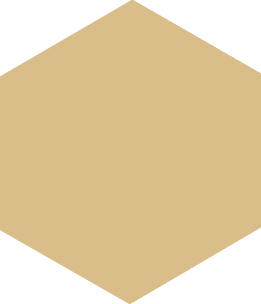
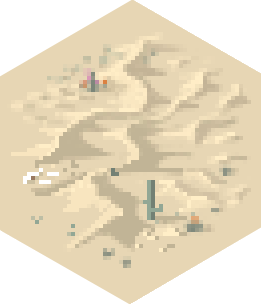
Use number token images (2-12), fix desert hex asset, water/desert at native size

diff --git a/src/components/HexBoard.tsx b/src/components/HexBoard.tsx
@@ -50,6 +50,14 @@ const COLOR_TO_ROAD_BUILD: Record<string, { folder: string; prefix: string }> = 
 }
 const PLACEABLE_ROAD_FRAME_MS = 110
 
+/** Number token assets (2–12): use at native size, unaltered. */
+const NUMBER_TOKEN_WIDTH = 88
+const NUMBER_TOKEN_HEIGHT = 76
+
+/** Water and desert hex assets: use at native size, unaltered (261×304). */
+const WATER_HEX_WIDTH = 261
+const WATER_HEX_HEIGHT = 304
+
 // Map player color image to city icon (built cities use these instead of the settlement/house image)
 const COLOR_TO_CITY_IMAGE: Record<string, string> = {
   '/player-teal.png': '/city-teal.png',
@@ -224,12 +232,12 @@ export function HexBoard({
             <g clipPath={`url(#water-clip-${q},${r})`}>
               <image
                 href="/water-hex.png"
-                x={center.x - HEX_R * 2}
-                y={center.y - HEX_R * 2}
-                width={HEX_R * 4}
-                height={HEX_R * 4}
-                preserveAspectRatio="none"
-                style={{ imageRendering: 'pixelated' }}
+                x={center.x - WATER_HEX_WIDTH / 2}
+                y={center.y - WATER_HEX_HEIGHT / 2}
+                width={WATER_HEX_WIDTH}
+                height={WATER_HEX_HEIGHT}
+                preserveAspectRatio="xMidYMid meet"
+                style={{ imageRendering: 'pixelated', pointerEvents: 'none' }}
               />
             </g>
             <path
@@ -359,32 +367,25 @@ export function HexBoard({
               <g clipPath={`url(#hex-clip-${h.id})`}>
                 <image
                   href="/desert-hex.png"
-                  x={center.x - HEX_R * 2}
-                  y={center.y - HEX_R * 2}
-                  width={HEX_R * 4}
-                  height={HEX_R * 4}
-                  preserveAspectRatio="none"
+                  x={center.x - HEX_R}
+                  y={center.y - HEX_R}
+                  width={HEX_R * 2}
+                  height={HEX_R * 2}
+                  preserveAspectRatio="xMidYMid meet"
                   style={{ imageRendering: 'pixelated', pointerEvents: 'none' }}
                 />
               </g>
             )}
             {showNumberTokens && h.number != null && (
-              <text
-                x={center.x}
-                y={center.y}
-                textAnchor="middle"
-                dominantBaseline="central"
-                fill={h.number === 6 || h.number === 8 ? '#b91c1c' : '#1a1a1a'}
-                fontWeight="bold"
-                fontSize={47.5}
-                stroke="#ffffff"
-                strokeWidth={4}
-                paintOrder="stroke"
-                filter="url(#hex-number-shadow)"
-                style={{ pointerEvents: 'none' }}
-              >
-                {h.number}
-              </text>
+              <image
+                href={`/number-tokens/${h.number}.png`}
+                x={center.x - NUMBER_TOKEN_WIDTH / 2}
+                y={center.y - NUMBER_TOKEN_HEIGHT / 2}
+                width={NUMBER_TOKEN_WIDTH}
+                height={NUMBER_TOKEN_HEIGHT}
+                preserveAspectRatio="xMidYMid meet"
+                style={{ imageRendering: 'pixelated', pointerEvents: 'none' }}
+              />
             )}
             {isRobberHex && (
               <circle
